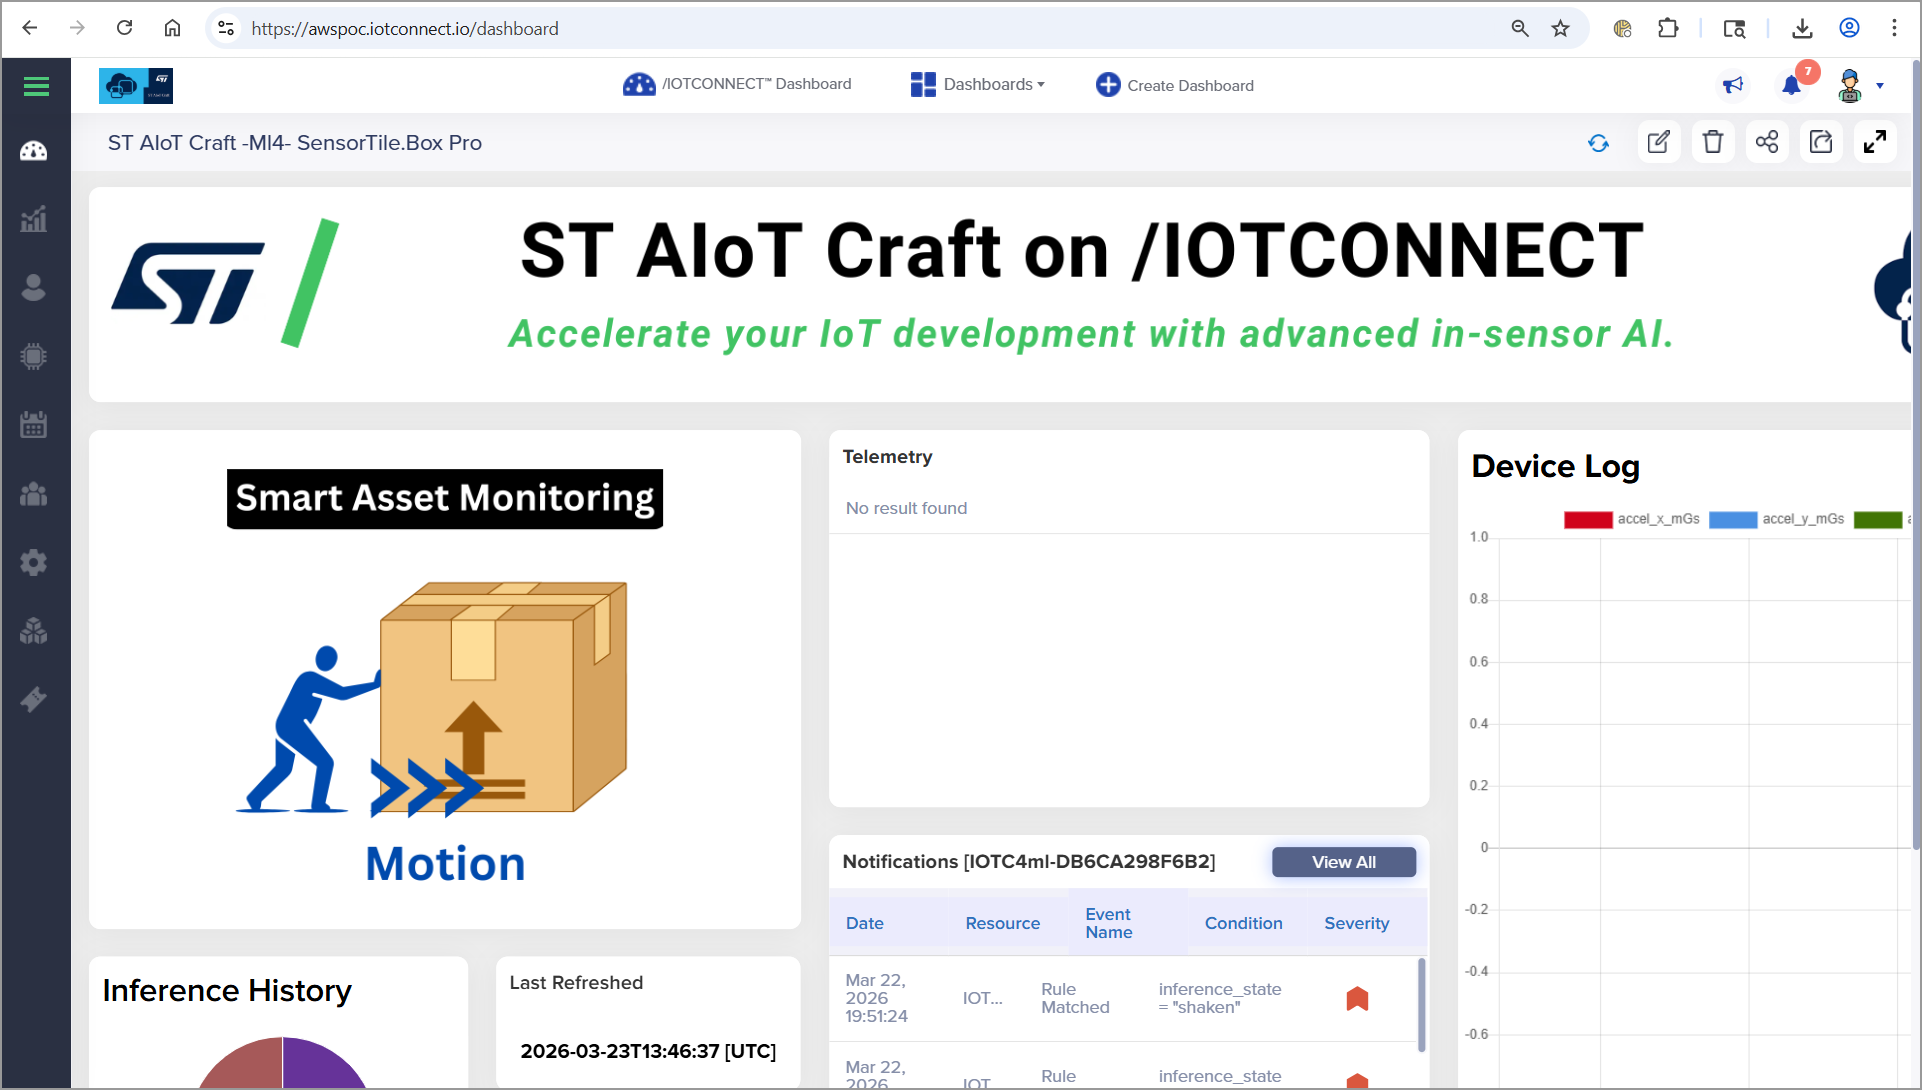
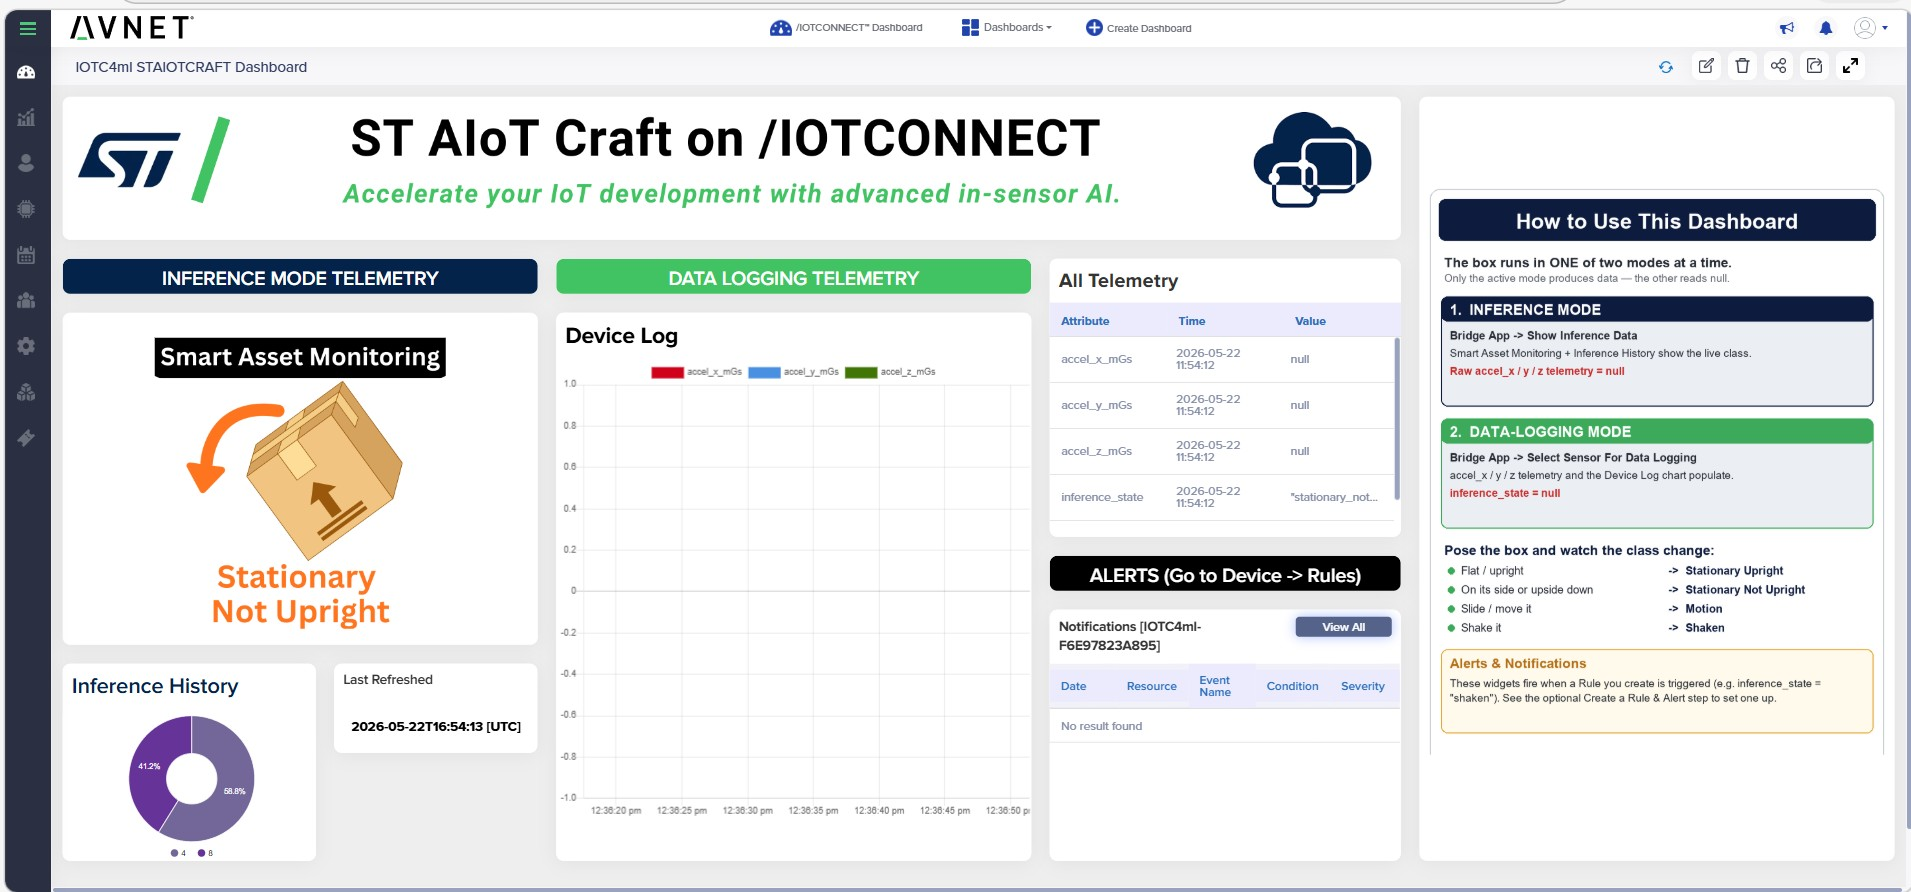
Update finished-dashboard shot and note the built-in instructions panel
- Replace 36_dashboard_view.png with the new dashboard that has the
  Inference Mode / Data Logging telemetry sections and the built-in
  quick-reference panel
- The dashboard template JSON now bundles the instructions panel, so
  reword the "add a panel" tip to a note that it's already part of the
  imported dashboard (nothing to add manually)
- Reword the finished-view caption to describe the two telemetry groups

diff --git a/st_aiotcraft_lab1_deploy.md b/st_aiotcraft_lab1_deploy.md
@@ -263,15 +263,15 @@ Dynamic Dashboards visualize live telemetry, inference history, and any other at
 
   <img src="images/st_aiotcraft/35_dashboard_dropdown.png" alt="Dashboard dropdown" width="500"/>
 
-The finished view shows live inference (`Smart Asset Monitoring` widget), telemetry, device log, and notifications — all bound to the device you just paired.
+The finished view groups the widgets into **Inference Mode Telemetry** (Smart Asset Monitoring, Inference History) and **Data Logging Telemetry** (Device Log, All Telemetry), alongside Alerts and Notifications — all bound to the device you just paired.
 
 <img src="images/st_aiotcraft/36_dashboard_view.png" alt="ST AIoT Craft dashboard" width="700"/>
 
 > **TIP**
 > The dashboard supports five management actions from the top bar: **Refresh Data**, **Edit Mode**, **Delete**, **Share Link** (no login required), and **Export to JSON** (handy when onboarding another device).
 
-> **TIP — Add a quick-reference panel**
-> There's empty space to the right of the dashboard widgets — a good spot for a short instructions card so anyone opening the dashboard knows how to read the two telemetry modes. In **Edit Mode**, add an **Image** widget and drop in the panel below (or your own):
+> **NOTE — Built-in quick-reference panel**
+> The imported dashboard already includes a quick-reference panel on the right (shown below) explaining the two telemetry modes — it's part of the template, so there's nothing to add yourself.
 >
 > <img src="images/st_aiotcraft/dashboard_instructions.png" alt="Dashboard quick-reference instructions" width="320"/>
 

diff --git a/st_aiotcraft_guide.md b/st_aiotcraft_guide.md
@@ -270,7 +270,7 @@ Dynamic Dashboards visualize live telemetry, inference history, and any other at
 
   <img src="images/st_aiotcraft/35_dashboard_dropdown.png" alt="Dashboard dropdown" width="500"/>
 
-The finished view shows live inference (`Smart Asset Monitoring` widget), telemetry, device log, and notifications — all bound to the device you just paired.
+The finished view groups the widgets into **Inference Mode Telemetry** (Smart Asset Monitoring, Inference History) and **Data Logging Telemetry** (Device Log, All Telemetry), alongside Alerts and Notifications — all bound to the device you just paired.
 
 <img src="images/st_aiotcraft/36_dashboard_view.png" alt="ST AIoT Craft dashboard" width="700"/>
 
@@ -279,8 +279,8 @@ The finished view shows live inference (`Smart Asset Monitoring` widget), teleme
 >
 > <img src="images/st_aiotcraft/38_live_data.png" alt="Live Data view" width="700"/>
 
-> **TIP — Add a quick-reference panel**
-> There's empty space to the right of the dashboard widgets — a good spot for a short instructions card so anyone opening the dashboard knows how to read the two telemetry modes. In **Edit Mode**, add an **Image** widget and drop in the panel below (or your own):
+> **NOTE — Built-in quick-reference panel**
+> The imported dashboard already includes a quick-reference panel on the right (shown below) explaining the two telemetry modes — it's part of the template, so there's nothing to add yourself.
 >
 > <img src="images/st_aiotcraft/dashboard_instructions.png" alt="Dashboard quick-reference instructions" width="320"/>
 
